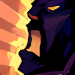
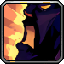
Bandages

diff --git a/Content/Items/Spells/Blink.cs b/Content/Items/Spells/Blink.cs
@@ -16,8 +16,8 @@ namespace WotTK.Content.Items.Spells
         public override void SetDefaults()
         {
             Item.rare = ItemRarityID.Pink;
-            Item.width = 48;
-            Item.height = 48;
+            Item.width = 64;
+            Item.height = 64;
             Item.useTime = Item.useAnimation = 12;
             Item.useStyle = ItemUseStyleID.Shoot;
             Item.expert = true;

diff --git a/Content/Items/Spells/BattleShout.cs b/Content/Items/Spells/BattleShout.cs
@@ -13,8 +13,8 @@ namespace WotTK.Content.Items.Spells
         public override void SetDefaults()
         {
             Item.rare = ItemRarityID.Pink;
-            Item.width = 48;
-            Item.height = 48;
+            Item.width = 64;
+            Item.height = 64;
             Item.useTime = Item.useAnimation = 12;
             Item.useStyle = ItemUseStyleID.Shoot;
 

diff --git a/Content/Items/Spells/Sprint.cs b/Content/Items/Spells/Sprint.cs
@@ -14,8 +14,8 @@ namespace WotTK.Content.Items.Spells
         public override void SetDefaults()
         {
             Item.rare = ItemRarityID.Pink;
-            Item.width = 48;
-            Item.height = 48;
+            Item.width = 64;
+            Item.height = 64;
             Item.useTime = Item.useAnimation = 12;
             Item.useStyle = ItemUseStyleID.Shoot;
 

diff --git a/Content/Items/Spells/Stealth.cs b/Content/Items/Spells/Stealth.cs
@@ -13,8 +13,8 @@ namespace WotTK.Content.Items.Spells
         public override void SetDefaults()
         {
             Item.rare = ItemRarityID.Pink;
-            Item.width = 48;
-            Item.height = 48;
+            Item.width = 64;
+            Item.height = 64;
             Item.useTime = Item.useAnimation = 12;
             Item.useStyle = ItemUseStyleID.Shoot;
 
